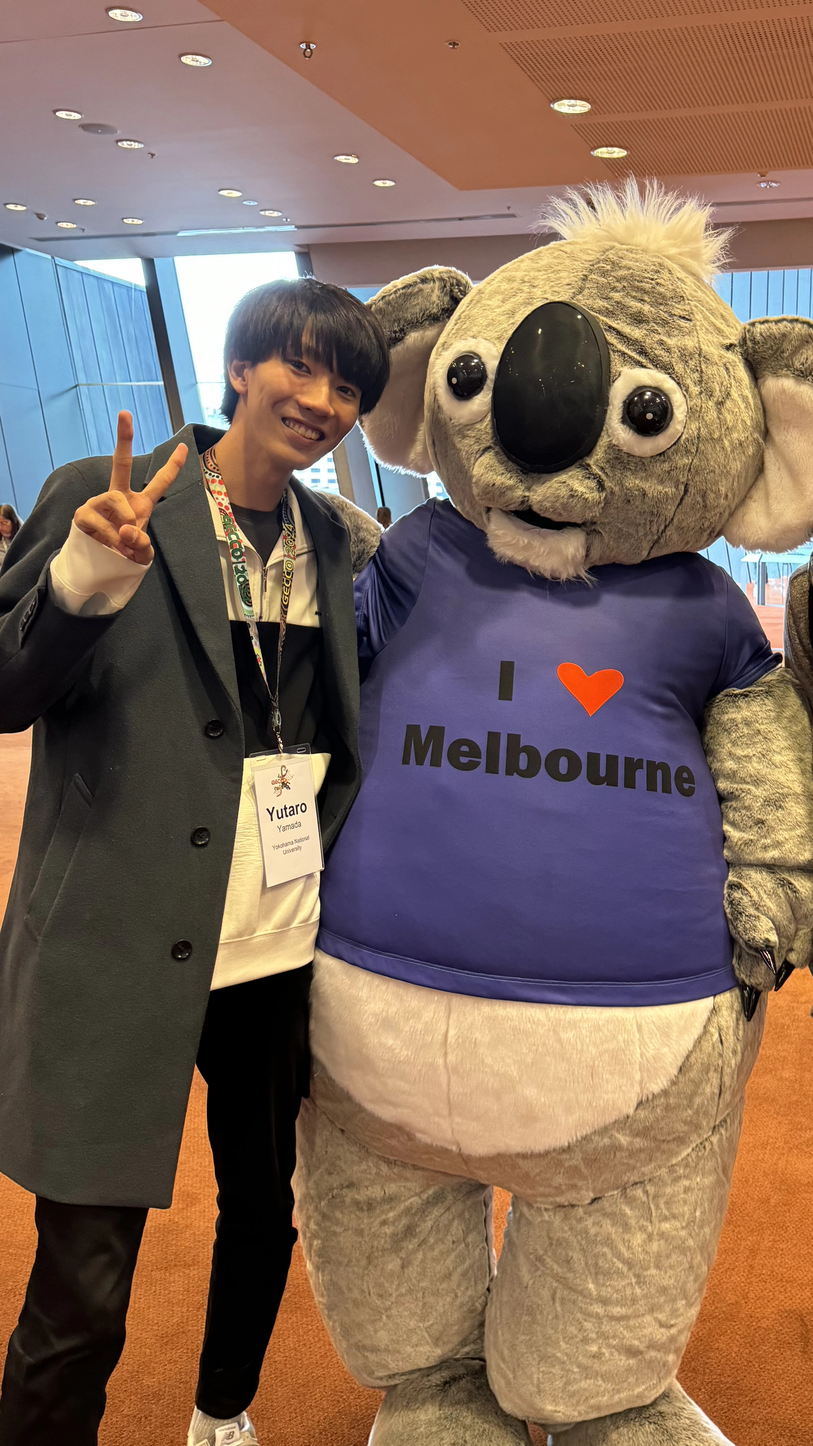
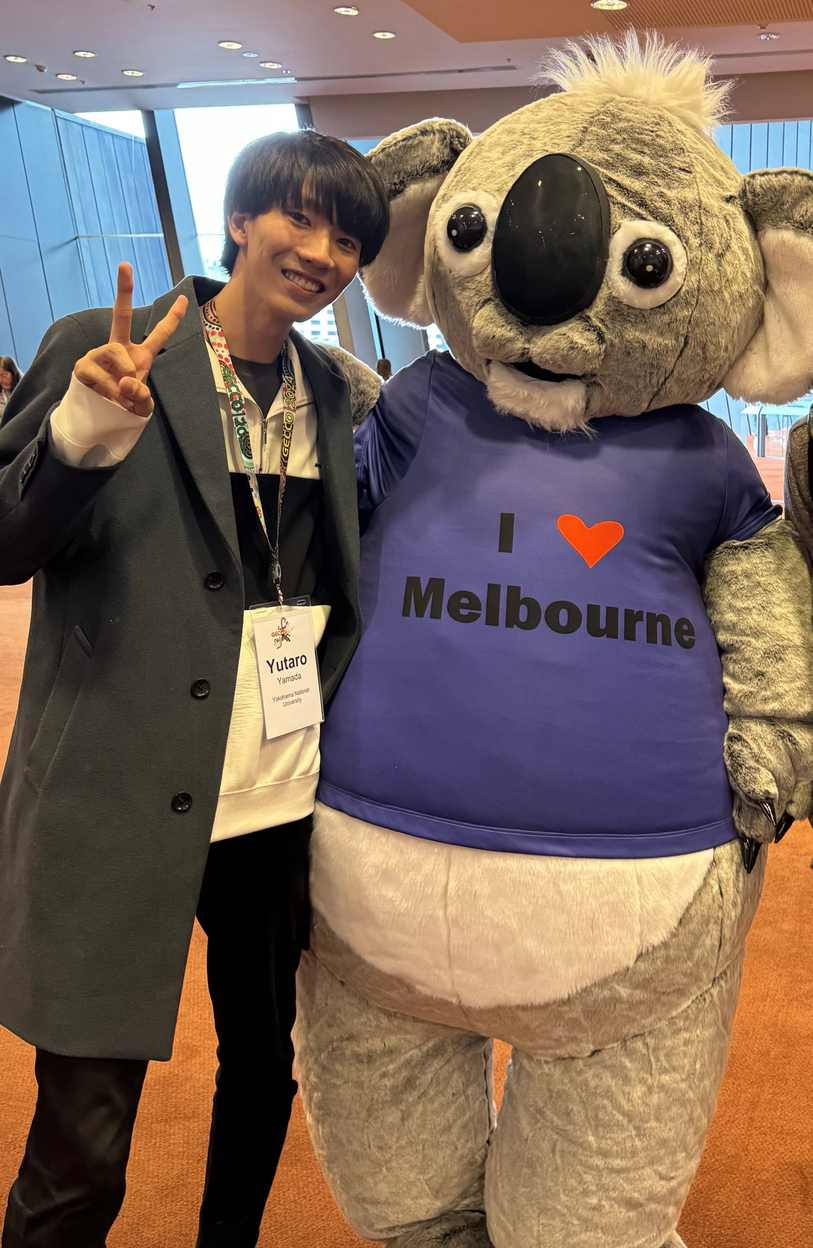
modify: profile

diff --git a/_pages/about.md b/_pages/about.md
@@ -27,8 +27,8 @@ latest_posts:
   limit: 3 # leave blank to include all the blog posts
 ---
 
-はじめまして！
-横浜国立大学・[白川研究室](https://shiralab.ynu.ac.jp/)に所属している、博士課程後期1年の山田裕太郎です。\\
+はじめまして！\\
+横浜国立大学・[白川研究室](https://shiralab.ynu.ac.jp/)に所属している、博士課程後期1年の山田裕太郎です。
 人工知能およびブラックボックス最適化を中心とした研究を行っています。
 
 主に進化計算（Evolutionary Computation）および多目的最適化（Multi-objective Optimization）における、最適化アルゴリズムの開発や応用に関心を持っています。
@@ -37,7 +37,7 @@ latest_posts:
 ***
 
 Hello!\\
-I am a 1st-year Ph.D. student at [Shirakawa Laboratory](https://shiralab.ynu.ac.jp/), Yokohama National University. \\
+I am a 1st-year Ph.D. student at [Shirakawa Laboratory](https://shiralab.ynu.ac.jp/), Yokohama National University.
 My research primarily focuses on artificial intelligence and black-box optimization.
 
 I am particularly interested in Evolutionary Computation and Multi-objective Optimization.
